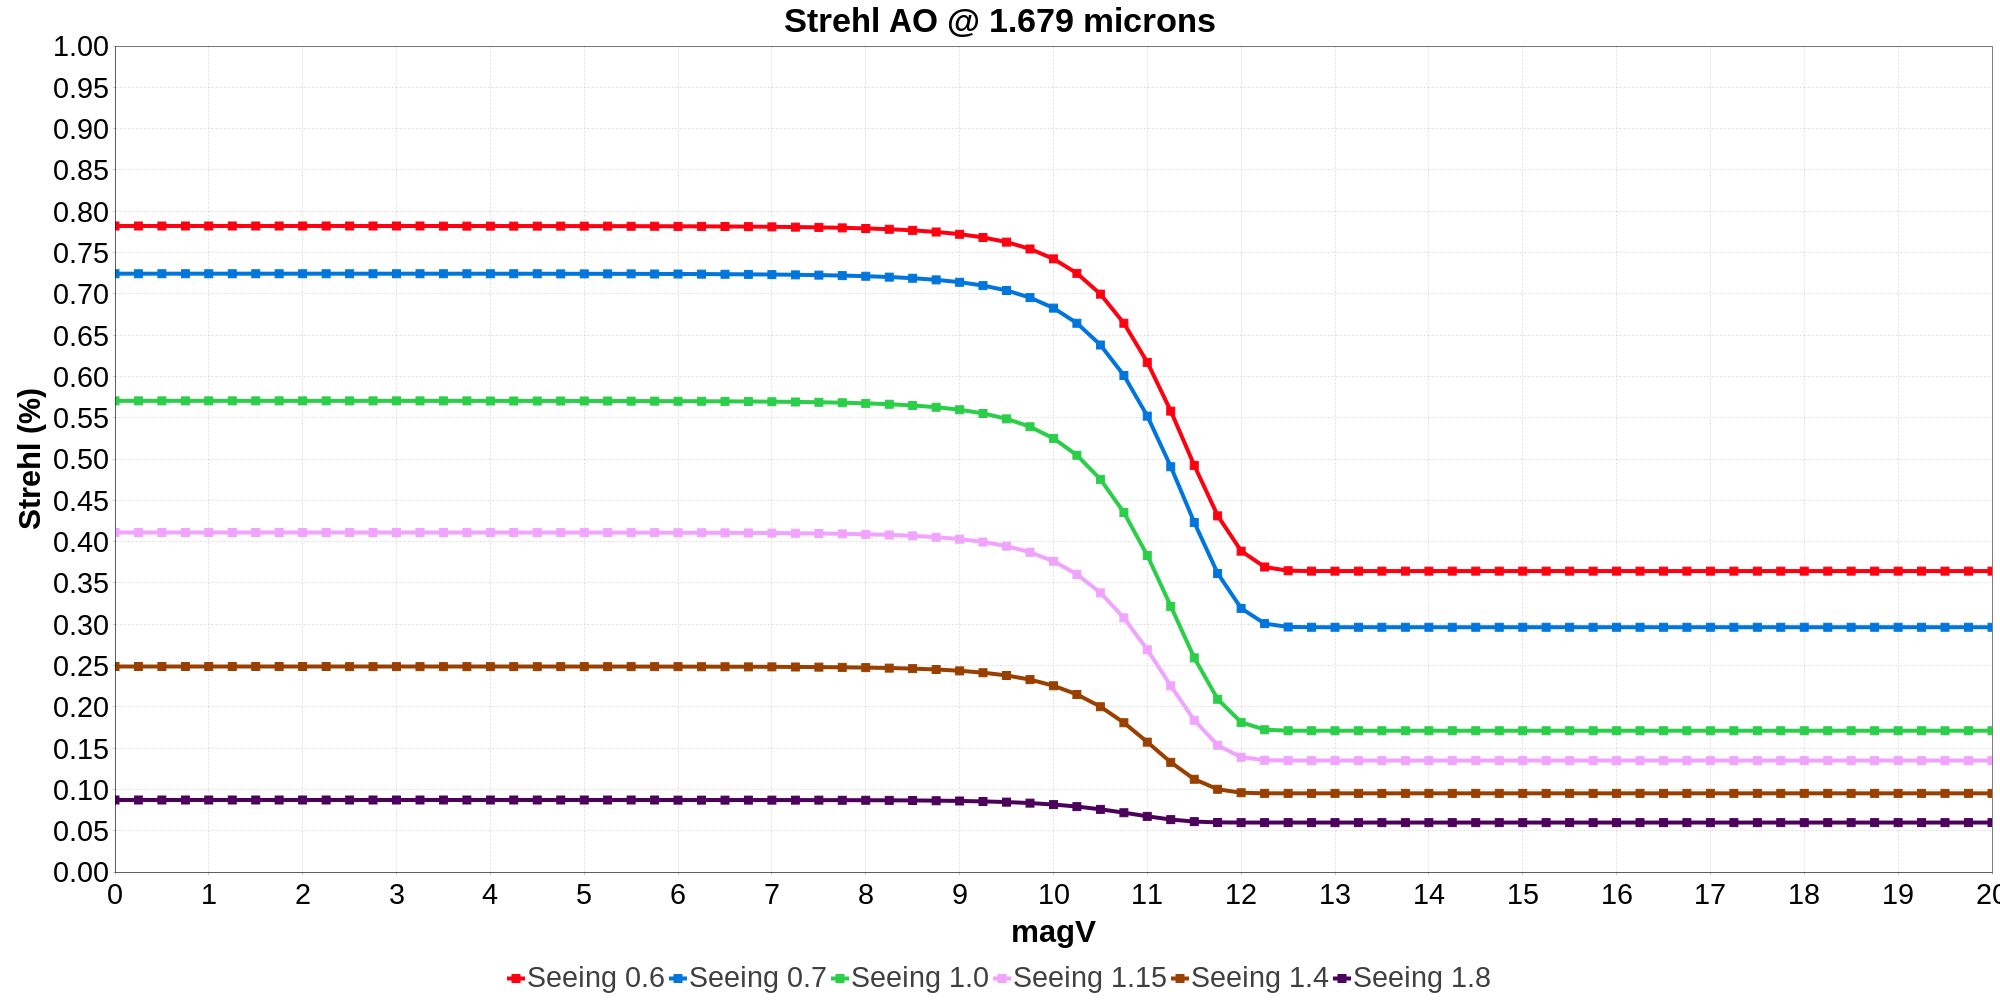
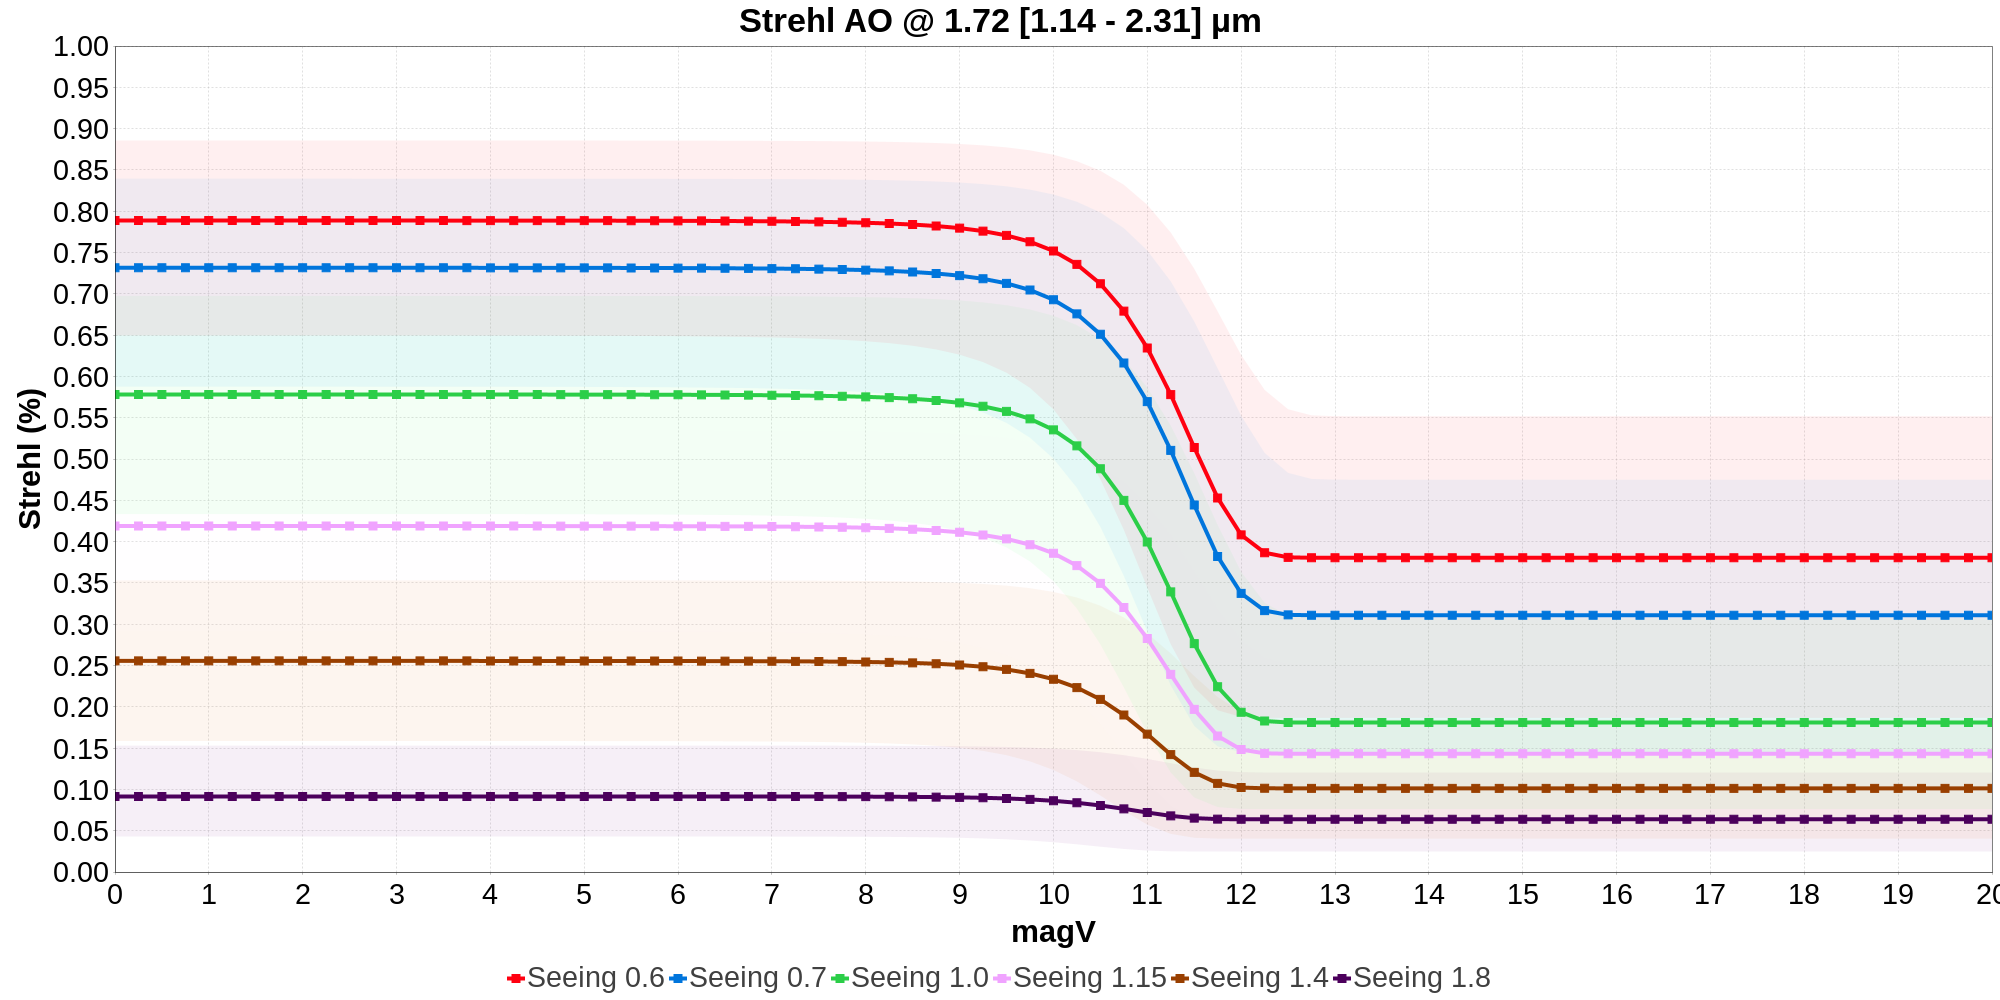
updated strehl plots to show SR enveloppe corresponding to instrument wavelength bandwidth

diff --git a/doc/strehl/index_VLTI.md b/doc/strehl/index_VLTI.md
@@ -6,84 +6,14 @@
 
 # ASPRO 2 - Strehl ratios per instrument, telescope and Adaptive Optics (AO) systems
 
-Date: Mon Mar 04 10:52:10 GMT 2024
+Date: Fri Mar 08 14:53:41 GMT 2024
 
-InterferometerConfiguration: VLTI Period 113
-
-## FocalInstrument: PIONIER
-
-Instrument band: H
-
-### Telescope: UT
-
-Telescope diameter (m): 8.0
-
-#### Adaptive Optics: AO_GPAO_NGS_VIS
-
-AO band: R
-
-- AO setup: GPAO_NGS_VIS
-
-  - AO band: R
-  - AO nbSubPupils: 1200
-  - AO nbActuators: 800
-  - AO td: 1.0
-  - AO ron: 0.25
-  - AO qe: 0.25
-
-  ![PIONIER UT (GPAO_NGS_VIS) Strehl ratio H vs magR](PIONIER_UT_GPAO_NGS_VIS_Strehl_ratio_H_vs_magR.png)
-
-
-#### Adaptive Optics: AO_MACAO
-
-AO band: V
-
-- AO setup: MACAO
-
-  - AO band: V
-  - AO nbSubPupils: 60
-  - AO nbActuators: 50
-  - AO td: 0.8
-  - AO ron: 1.0
-  - AO qe: 0.7
-
-  ![PIONIER UT (MACAO) Strehl ratio H vs magV](PIONIER_UT_MACAO_Strehl_ratio_H_vs_magV.png)
-
-
-### Telescope: AT
-
-Telescope diameter (m): 1.8
-
-#### Adaptive Optics: AO_NAOMI
-
-AO band: R
-
-- AO setup: NAOMI_BRIGHT
-
-  - AO band: R
-  - AO nbSubPupils: 16
-  - AO nbActuators: 15
-  - AO td: 2.0
-  - AO ron: 0.32
-  - AO qe: 0.1
-
-  ![PIONIER AT (NAOMI_BRIGHT) Strehl ratio H vs magR](PIONIER_AT_NAOMI_BRIGHT_Strehl_ratio_H_vs_magR.png)
-
-- AO setup: NAOMI_FAINT
-
-  - AO band: R
-  - AO nbSubPupils: 16
-  - AO nbActuators: 7
-  - AO td: 5.0
-  - AO ron: 0.32
-  - AO qe: 0.1
-
-  ![PIONIER AT (NAOMI_FAINT) Strehl ratio H vs magR](PIONIER_AT_NAOMI_FAINT_Strehl_ratio_H_vs_magR.png)
-
+InterferometerConfiguration: VLTI Period 114
 
 ## FocalInstrument: GRAVITY
 
 Instrument band: K
+Instrument central wavelength : 2.2468775 µm
 
 ### Telescope: UT
 
@@ -198,6 +128,7 @@ AO band: R
 ## FocalInstrument: MATISSE_LM
 
 Instrument band: L
+Instrument central wavelength : 3.9020883561 µm
 
 ### Telescope: UT
 
@@ -269,6 +200,7 @@ AO band: R
 ## FocalInstrument: MATISSE_N
 
 Instrument band: N
+Instrument central wavelength : 10.470313367675 µm
 
 ### Telescope: UT
 
@@ -335,5 +267,77 @@ AO band: R
   - AO qe: 0.1
 
   ![MATISSE_N AT (NAOMI_FAINT) Strehl ratio N vs magR](MATISSE_N_AT_NAOMI_FAINT_Strehl_ratio_N_vs_magR.png)
+
+
+## FocalInstrument: PIONIER
+
+Instrument band: H
+Instrument central wavelength : 1.65 µm
+
+### Telescope: UT
+
+Telescope diameter (m): 8.0
+
+#### Adaptive Optics: AO_GPAO_NGS_VIS
+
+AO band: R
+
+- AO setup: GPAO_NGS_VIS
+
+  - AO band: R
+  - AO nbSubPupils: 1200
+  - AO nbActuators: 800
+  - AO td: 1.0
+  - AO ron: 0.25
+  - AO qe: 0.25
+
+  ![PIONIER UT (GPAO_NGS_VIS) Strehl ratio H vs magR](PIONIER_UT_GPAO_NGS_VIS_Strehl_ratio_H_vs_magR.png)
+
+
+#### Adaptive Optics: AO_MACAO
+
+AO band: V
+
+- AO setup: MACAO
+
+  - AO band: V
+  - AO nbSubPupils: 60
+  - AO nbActuators: 50
+  - AO td: 0.8
+  - AO ron: 1.0
+  - AO qe: 0.7
+
+  ![PIONIER UT (MACAO) Strehl ratio H vs magV](PIONIER_UT_MACAO_Strehl_ratio_H_vs_magV.png)
+
+
+### Telescope: AT
+
+Telescope diameter (m): 1.8
+
+#### Adaptive Optics: AO_NAOMI
+
+AO band: R
+
+- AO setup: NAOMI_BRIGHT
+
+  - AO band: R
+  - AO nbSubPupils: 16
+  - AO nbActuators: 15
+  - AO td: 2.0
+  - AO ron: 0.32
+  - AO qe: 0.1
+
+  ![PIONIER AT (NAOMI_BRIGHT) Strehl ratio H vs magR](PIONIER_AT_NAOMI_BRIGHT_Strehl_ratio_H_vs_magR.png)
+
+- AO setup: NAOMI_FAINT
+
+  - AO band: R
+  - AO nbSubPupils: 16
+  - AO nbActuators: 7
+  - AO td: 5.0
+  - AO ron: 0.32
+  - AO qe: 0.1
+
+  ![PIONIER AT (NAOMI_FAINT) Strehl ratio H vs magR](PIONIER_AT_NAOMI_FAINT_Strehl_ratio_H_vs_magR.png)
 
 

diff --git a/doc/strehl/index_CHARA.md b/doc/strehl/index_CHARA.md
@@ -6,13 +6,14 @@
 
 # ASPRO 2 - Strehl ratios per instrument, telescope and Adaptive Optics (AO) systems
 
-Date: Mon Mar 04 10:52:10 GMT 2024
+Date: Fri Mar 08 14:53:41 GMT 2024
 
-InterferometerConfiguration: CHARA 2024A
+InterferometerConfiguration: CHARA 2024B
 
 ## FocalInstrument: CLASSIC
 
 Instrument band: H
+Instrument central wavelength : 1.7286000000000001 µm
 
 ### Telescope: T
 
@@ -37,6 +38,7 @@ AO band: V
 ## FocalInstrument: CLIMB
 
 Instrument band: H
+Instrument central wavelength : 1.7286000000000001 µm
 
 ### Telescope: T
 
@@ -61,6 +63,7 @@ AO band: V
 ## FocalInstrument: MIRCX-MYSTIC
 
 Instrument band: H
+Instrument central wavelength : 1.74025 µm
 
 ### Telescope: T
 
@@ -85,6 +88,7 @@ AO band: V
 ## FocalInstrument: PAVO
 
 Instrument band: I
+Instrument central wavelength : 0.79 µm
 
 ### Telescope: T
 
@@ -109,6 +113,7 @@ AO band: V
 ## FocalInstrument: SPICA
 
 Instrument band: I
+Instrument central wavelength : 0.7518 µm
 
 ### Telescope: T
 
